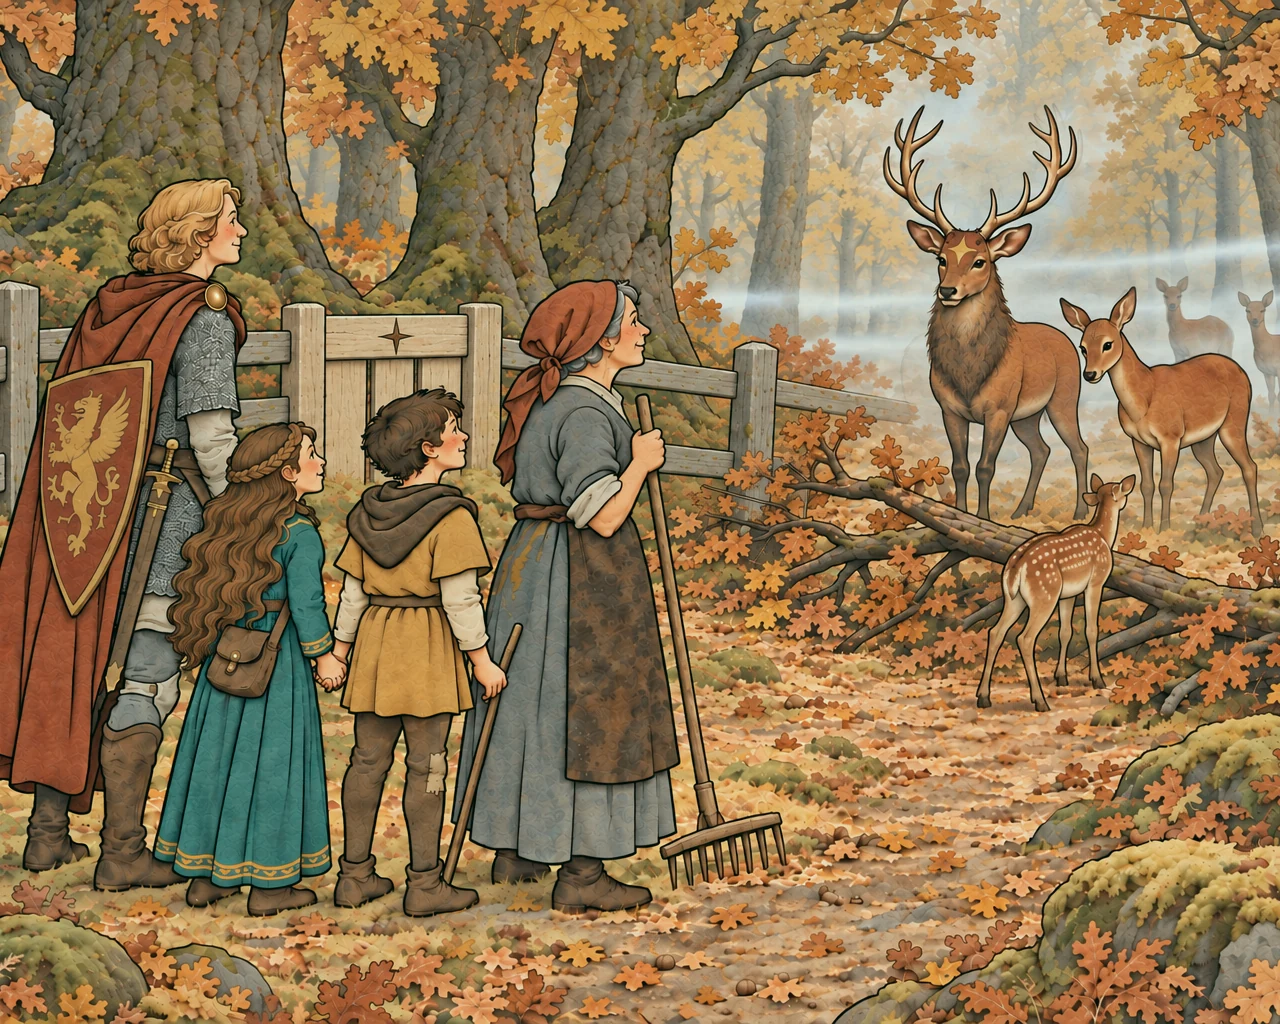
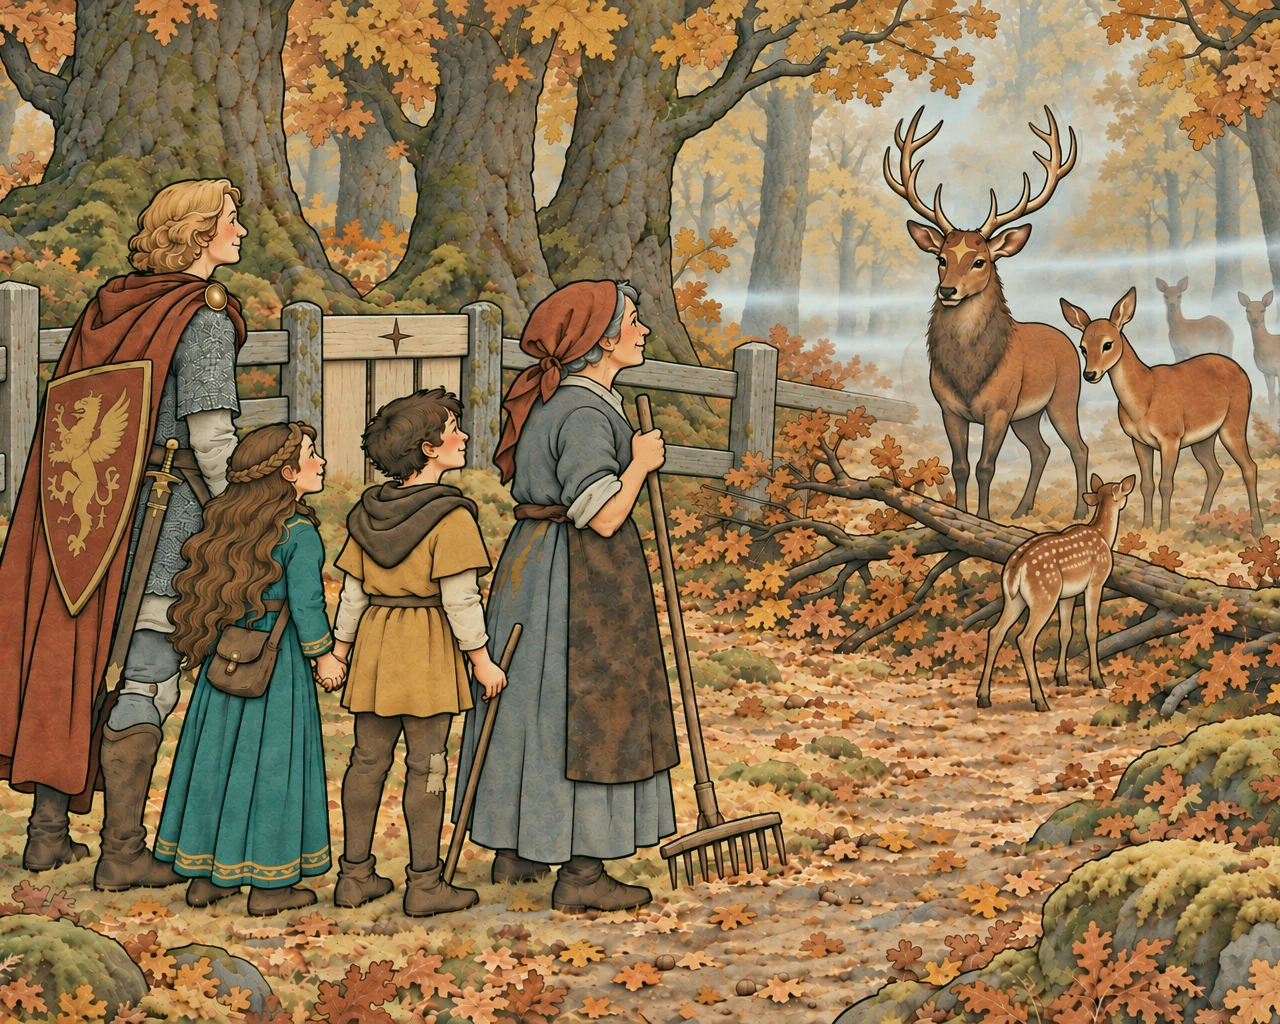
Forest second fresh review: one transplanted split star on every old gate, four-legged doe, one gate leaf, grey posts on p8, one tail, pink ear

Changed region(s): [[0.3438, 0.2812, 0.4062, 0.4688], [0.2188, 0.2812, 0.2812, 0.4375]]

diff --git a/prototypes/prompts/_build_forest.py b/prototypes/prompts/_build_forest.py
@@ -555,6 +555,28 @@ again("fo-p7-give-sack", "fo-p7-give-sackj", "fo-p7-give-sackk", "everything exc
 # Shipped composites (changed region only): fo-p9-make-wayh = make-wayf + the deer and gate from g; fo-p9-help-fawni =
 # help-fawng + the gate from h; fo-p7-gather-forestk = gather-foresti + the caparison from j; fo-p7-give-sackl =
 # give-sackj + the shield behind the rail from k.
+# Second fresh review: the doe on p9 help-fawn had five legs and the gate two leaves; p8 hung the gate on new pale posts;
+# p9 make-way gave the Big piglet two tails; p3 call-back gave the Big piglet the Smallest's dark ear.
+again("fo-p9-help-fawn", "fo-p9-help-fawni", "fo-p9-help-fawnj", "everything except the legs of the doe and the fawn, and the gate",
+      "(1) The doe has EXACTLY FOUR legs and the fawn EXACTLY FOUR legs, each leg clearly joined to its own body; no extra leg between them. (2) The gate is ONE single leaf, " + GATE_FLUSH + ", hung on the old grey post and swung open; no second leaf, no edge-on board on the other post.",
+      neg="no fifth leg; no extra hooves; no double gate; no second gate leaf")
+again("fo-p8", "fo-p8i", "fo-p8j", "everything except the two posts the new gate hangs between",
+      "The new pale gate hangs between two OLD GREY weathered oak posts like the rest of the fence (rounded tops, grey, mossy); only the gate itself is new pale wood.",
+      neg="no new pale posts")
+again("fo-p9-make-way", "fo-p9-make-wayh", "fo-p9-make-wayi", "everything except the Big piglet's tail",
+      "The Big piglet (pink with one dark saddle patch) has exactly ONE small curly tail at its rump; nothing else curls on its back.", neg="no second tail")
+again("fo-p3-call-back", "fo-p3-call-backe", "fo-p3-call-backf", "everything except the Big piglet's ears",
+      "The Big piglet (one large dark saddle patch) has two PINK ears; only the Smallest piglet (all pink) has one dark ear.", neg="no dark ear on the Big piglet")
+MIST_FIRST.add("fo-p3-call-backf")
+# The Codex limit stopped make-wayi and call-backf (weekly limit to 2026-11-05); both were fixed by hand instead.
+# The old star: the approved star of fo-p5-ask-kindlyf (box (1008,298)-(1124,384), centre (1068,340)) is transplanted
+# with an affine fit and a wood-colour match onto every other old gate, after the old mark is cloned away along its board:
+# fo-p3-call-backg (centre (561,680), scale 0.85, squash 0.5), fo-p4h (324,786; 0.75, rot 14), fo-p5-show-tracksg
+# (1157,182; 0.7, rot 14), fo-p6h (from p6d; 637,392; 0.72, rot -6; crack extended through the board), fo-p7-give-sackm
+# (1460,487; 0.55, rot 4). Other shipped edits: fo-p3-call-backh = g with the Big piglet's ear repainted pink;
+# fo-p8k = p8i + the grey posts of p8j; fo-p9-help-fawnk = help-fawni + the doe's and fawn's legs from j, and the
+# second, edge-on gate leaf covered by the old post stretched over it (x 1058-1121); fo-p9-make-wayi = make-wayh with
+# the Big piglet's second tail (1108-1131, 667-693) cloned away.
 
 
 if __name__ == "__main__":
